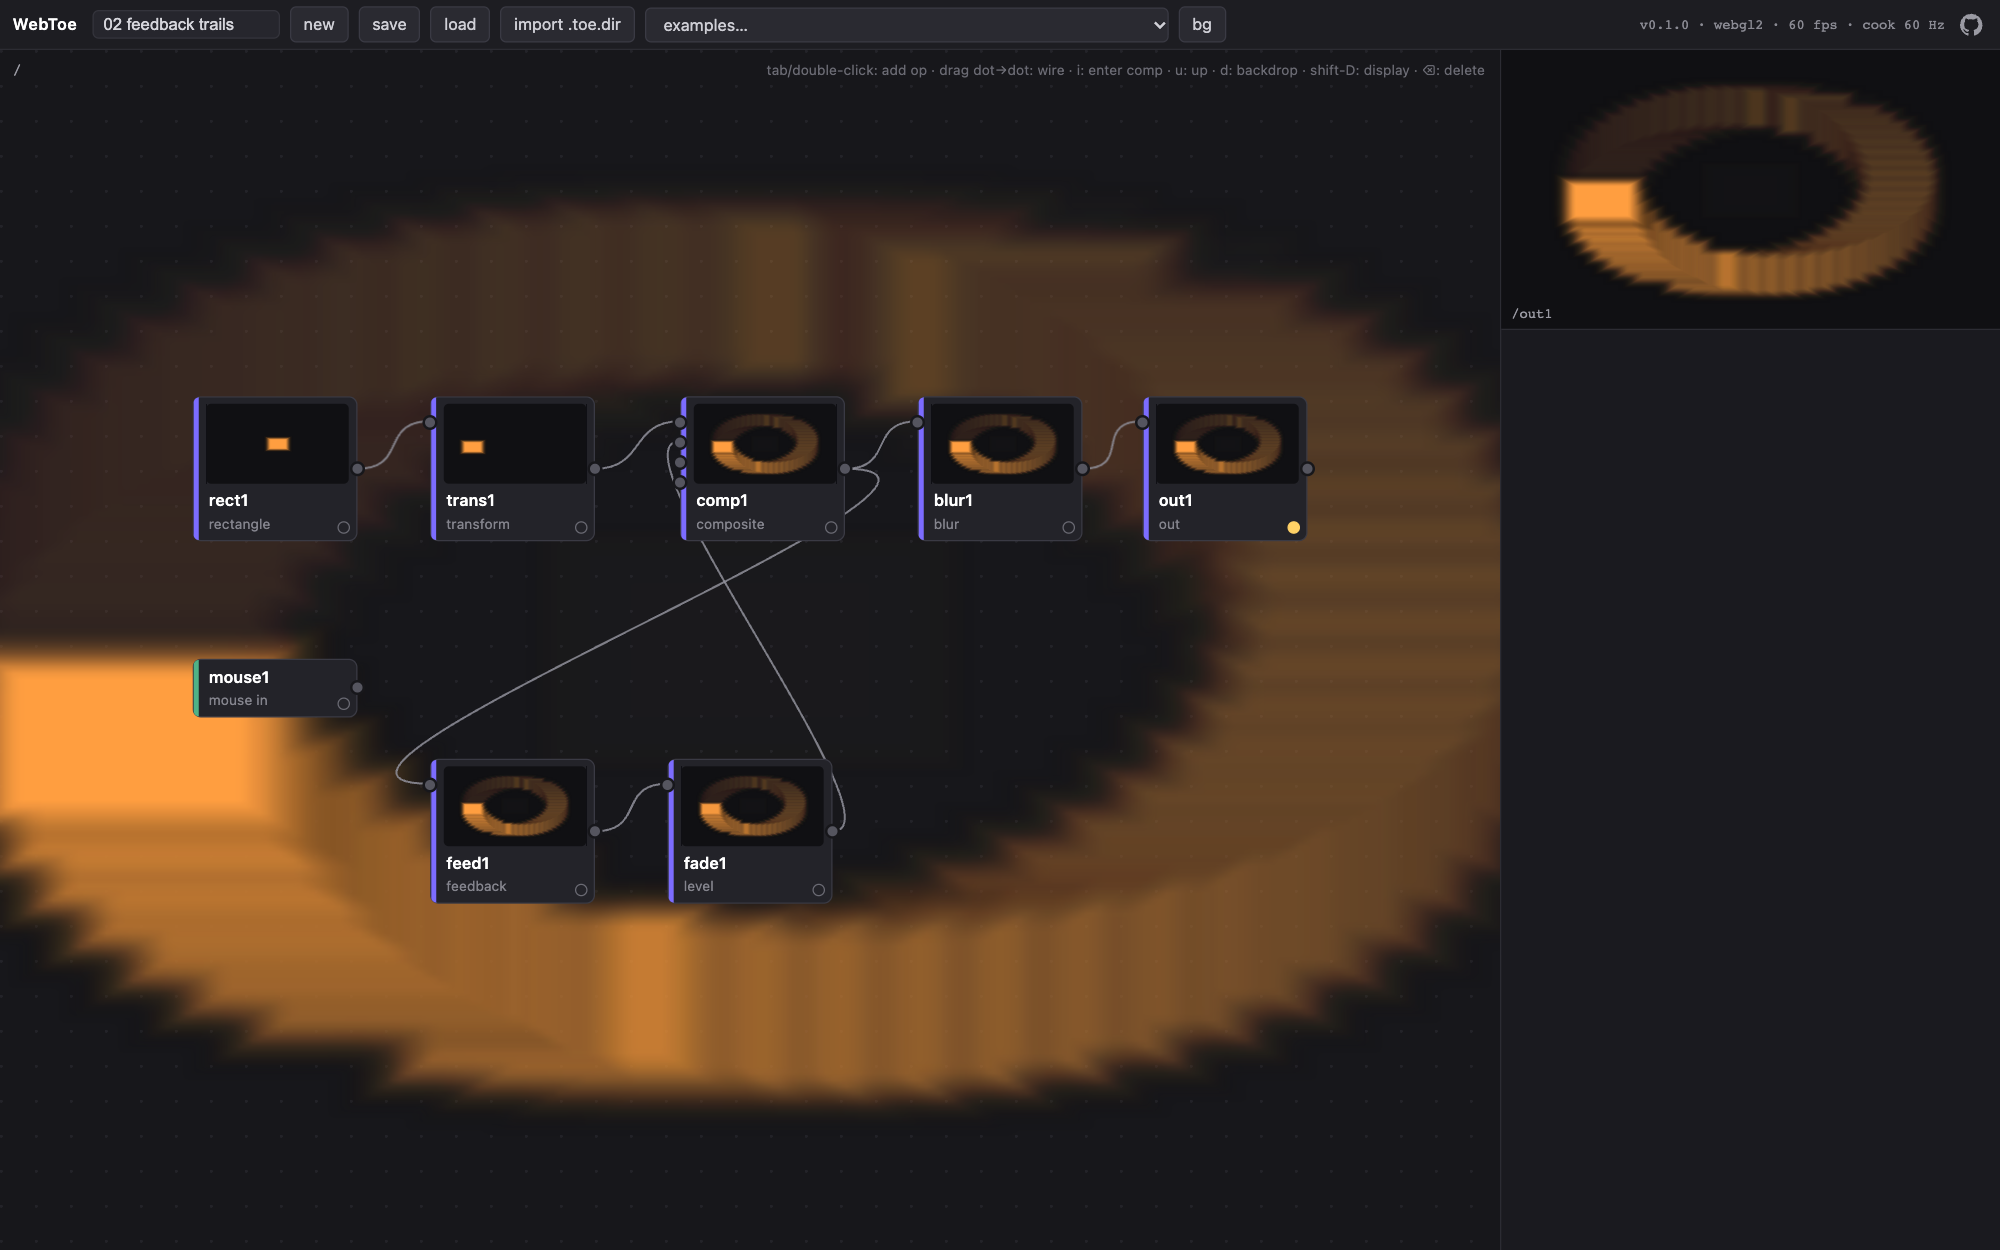
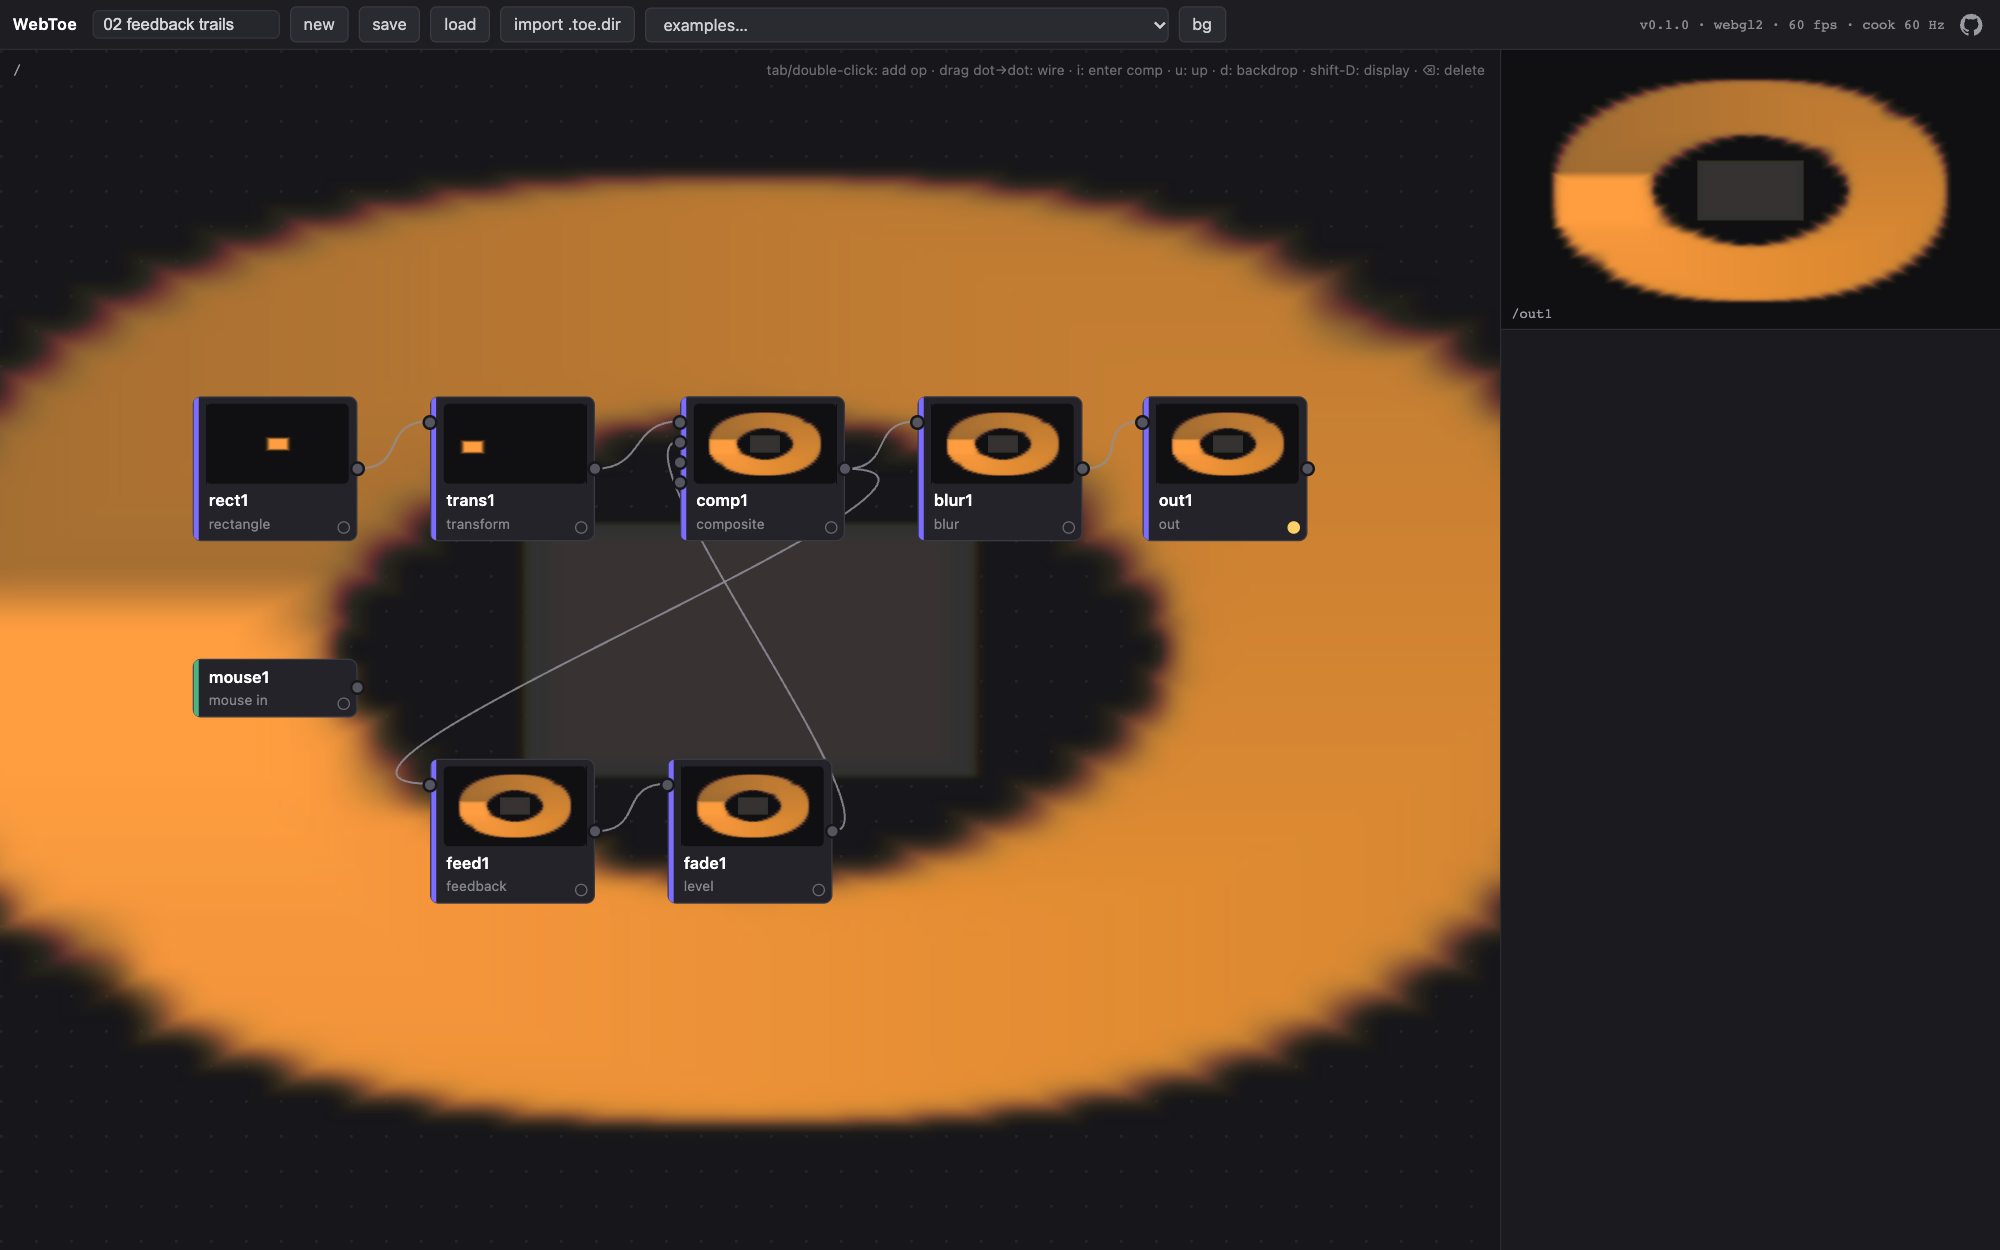
Docs: TouchDesigner fidelity on the site and in the README; screenshots
- README: TOP fidelity table with measured tolerances, the WebGPU gap
  removed (fixed in 3083cd9), bundle 260 KB / 76 KB gzip, measured cost per
  cook step (0.25-0.84 ms), 208 tests, third-party notices link
- site docs: a Fidelity section on the TouchDesigner parity page (en/zh)
- TD-PARITY: the WebGPU row-order bug recorded as fixed; ramp performance
  note; CHOPs and time
- screenshots recaptured after the fidelity pass; the WebGPU shot is the lfo
  garden again now that ramps render the same on both backends

diff --git a/README.md b/README.md
@@ -11,14 +11,15 @@
 
 ![WebToe editor running the lfo-garden example](docs/media/hero-lfo-garden.png)
 
-WebToe is an original engine and editor built from scratch for the web. It is not a TouchDesigner clone or port — it implements the workflow (operator families, wired networks, expression-driven parameters, a live cook loop) natively on **WebGL2 and WebGPU**, with **zero runtime dependencies** (the editor is about 200 KB of JavaScript, 60 KB gzipped). It cooks on **TouchDesigner's time model** — a fixed-rate cook clock — and it opens real TouchDesigner projects: a dropped `.toe` is decoded right in the browser (research preview), with your own TouchDesigner's `toeexpand` as the reference fallback.
+WebToe is an original engine and editor built from scratch for the web. It is not a TouchDesigner clone or port — it implements the workflow (operator families, wired networks, expression-driven parameters, a live cook loop) natively on **WebGL2 and WebGPU**, with **zero runtime dependencies** (the editor is about 260 KB of JavaScript, 76 KB gzipped). It cooks on **TouchDesigner's time model** — a fixed-rate cook clock — and it opens real TouchDesigner projects: a dropped `.toe` is decoded right in the browser (research preview), with your own TouchDesigner's `toeexpand` as the reference fallback.
 
 ## Highlights
 
 - **Patch live in the browser** — network editor with a create-operator dialog (`Tab` / double-click: family tabs, searchable grid), wire dragging, container hierarchy with in/out tunneling, **real-time previews on every node** (one GPU compositor paints the viewer and all visible thumbnails), a TouchDesigner-style network backdrop, and a parameter panel with sliders, menus, and per-parameter **expressions** (`op('lfo1')['chan1']`, `parent().par.speed`, `time.seconds * 0.2`, …).
 - **TouchDesigner's time model** — the engine cooks on a fixed grid at the project's cook rate (imported from the `.toe`, 60 Hz by default), so per-step constants such as feedback fades behave as they do in TouchDesigner on any display. State is deterministic (identical whether a frame runs 1, 7 or 24 steps), a 120 Hz display cooks a 60 Hz project 60 times a second, and a busy GPU never sends it into a catch-up death spiral.
-- **Real-time GPU engine** — pull-based cook; TOPs run as GPU passes, CHOPs drive parameters; feedback with TouchDesigner's Target TOP semantics, separable blur, compositing, displacement, edge detection, lookup, a 3D pipeline (SOPs, MATs, geometry/camera/light COMPs, render TOP), webcam/video/image input, and NDI in/out.
-- **Two GPU backends** — WebGL2 (default, universal) and WebGPU (`?backend=webgpu`), both speaking one backend-agnostic pass contract (one known WGSL gap, being fixed: the ramp TOP on WebGPU).
+- **TouchDesigner's numbers** — Level, Edge, Monochrome/Lookup, Ramp, Blur, Noise (Gustavson Perlin/simplex 2D–4D) and Composite (all 46 operations, premultiplied) follow formulas measured against TouchDesigner, with tested tolerances down to 1e-7.
+- **Real-time GPU engine** — pull-based cook; TOPs run as GPU passes, CHOPs drive parameters; feedback with TouchDesigner's Target TOP semantics, a 3D pipeline (SOPs, MATs, geometry/camera/light COMPs, render TOP), webcam/video/image input, and NDI in/out.
+- **Two GPU backends** — WebGL2 (default, universal) and WebGPU (`?backend=webgpu`), both speaking one backend-agnostic pass contract; the TOP shaders render identically on both within 1/255, and a contract test keeps the WGSL uniform layout in step with each operator.
 - **Opens TouchDesigner projects** — drop a `.toe`/`.tox` and it is **decoded natively in the browser**, no TouchDesigner install needed (research use only — see below); supported operators run live, everything else becomes a faithful stub preserving names, wires, layout, parameters, and Python code, with an honest report. Validated byte for byte against `toeexpand` on 125 production projects.
 - **Measured, reproducibly** — `npm run bench` prints one JSON line per project (fps, cook rate, fitted step cost, longest frame, heap growth, skipped steps); the editor's HUD shows display fps, cook rate and skipped steps live.
 - **Own versioned format** — lossless `.webtoe.json` save/load with migration hooks; the cook rate travels with the project.
@@ -29,7 +30,7 @@ WebToe is an original engine and editor built from scratch for the web. It is no
 
 | Operator palette | WebGPU backend |
 |---|---|
-| ![Searchable operator palette](docs/media/palette.png) | ![Hello noise on the WebGPU backend](docs/media/webgpu.png) |
+| ![Searchable operator palette](docs/media/palette.png) | ![The lfo garden example on the WebGPU backend](docs/media/webgpu.png) |
 
 ## Opening TouchDesigner projects
 
@@ -84,16 +85,29 @@ WebToe aims to behave like TouchDesigner where it matters for a ported network, 
 - **Lag CHOP** — the lag time is the time to cover 90% of a step: *a* = 1 − exp(−dt·ln10 / lag).
 - **Speed CHOP** — outputs the accumulation *before* this step; step 0 outputs 0.
 
-TOP operator formulas (level, edge, ramp, blur, noise, composite) are being aligned with the same measurements; [docs/TD-PARITY.md](docs/TD-PARITY.md) tracks what matches and with which tolerance.
+- **TOP formulas** — measured against TouchDesigner and checked by CPU references, with the real shaders compared to those references in Chrome:
+
+| TOP | What matches TouchDesigner | Measured tolerance |
+|---|---|---|
+| Level | order of operations, black level, ranges, low/high, post page; opacity scales RGB and alpha | ≤ 1e-3 |
+| Edge | √strength, black level, offset, Rec.709 luminance, edge over input | ≤ 1.2e-7 |
+| Monochrome, Lookup | Rec.709 luminance, channel menus | exact formula |
+| Ramp | wrapping keys (up to 32), phase/period rules, extend, interpolation | median ≤ 1e-5 (antialias not reproduced) |
+| Blur | full-width size, kernel integrated per texel, single-tap preshrink | ≤ 7.5e-7 |
+| Noise | Gustavson Perlin/simplex 2D–4D, TouchDesigner's coordinates, seeds, octaves = harmon + 1 | ≤ 3.7e-3, 99.9% ≤ 6e-4 |
+| Composite | premultiplied, all 46 operations, transform page | 37 ops ≤ 1e-7, 9 fitted ≤ 3e-5 |
+
+The full table — including what is inferred or approximate, and how to capture TouchDesigner goldens with `tools/td-golden/capture.py` — is in [docs/TD-PARITY.md](docs/TD-PARITY.md).
 
 ## Performance
 
-`npm run bench` (headless Chrome, MacBook Pro M4 Max) — every bundled project holds **60 fps with the cook clock at 60 Hz and zero skipped steps**; the fitted cost per cook step is 0.2–1.0 ms for the authored examples. What keeps it there:
+`npm run bench` (headless Chrome, MacBook Pro M4 Max) — every bundled project holds **60 fps with the cook clock at 60 Hz and zero skipped steps**. Measured directly (60 forced steps, then a synchronous readback), a cook step costs 0.25 ms for feedback trails, 0.50 ms for lfo garden, 0.73 ms for 3d lines and 0.84 ms for the showcase. What keeps it there:
 
 - one cook per step, not per display frame (half the GPU work on a 120 Hz display);
 - every node preview drawn by one GPU compositor;
 - the network backdrop reads pixels back without stalling the pipeline (pixel-pack buffer + fence);
 - no per-pass buffer allocation on WebGPU; both backends request the high-performance adapter;
+- shader hot paths stay in registers (e.g. the ramp picks its keys with static indices — 4.7× faster than indexing a local array);
 - TEA for the `.toe` container runs in a 287-byte WASM kernel (JS fallback), inflate is the platform's own.
 
 ## Operator set
@@ -124,7 +138,7 @@ The website carries the full docs in English and Chinese: [getting started](http
 ```bash
 npm install
 npm run dev        # editor at http://localhost:8643/app/
-npm run check      # typecheck + 141 tests
+npm run check      # typecheck + 208 tests (GPU and TouchDesigner-golden checks run when their env vars are set)
 npm run build      # site + editor → apps/web/dist (/, /zh/, /docs/, /app/)
 npm run site       # site only; npm run site:check guards against drift
 npm run bench      # runtime numbers in headless Chrome (needs the dev server)
@@ -170,4 +184,4 @@ WebToe is an independent open-source project, **not affiliated with or endorsed 
 
 ## License
 
-[MIT](LICENSE)
+[MIT](LICENSE) · third-party notices for the noise and other shader algorithms: [THIRD_PARTY_NOTICES.md](THIRD_PARTY_NOTICES.md)

diff --git a/docs/TD-PARITY.md b/docs/TD-PARITY.md
@@ -62,7 +62,11 @@ Importer fixes in the same pass: vertical ramps no longer import as horizontal; 
 
 WebToe-authored examples were adjusted where a semantic change would alter their look (Blur size is now full width, Edge uses √strength, Noise uses TD coordinates, Level opacity now scales RGB too, and the old ramp shader had `radial` and `circular` swapped): 01/08 (noise period), 02 (fade opacity → 1, blur size 3), 03 (ramp types swapped back to what rendered before), 04 (edge strength 25, noise period 1.35 / harmonics 1), 05 (ramp type name), 09 (edge strength squared, noise periods, ramp type, fade opacity → 1), 10 (blur size 16 gaussian). The imported sketches 06–08 keep their TD parameters — they now render with TD semantics.
 
-Backend parity: every pass of the new shaders was rendered on both backends from the same graph and compared pixel by pixel (ramp all types, noise all 11 types, level, edge, monochrome, blur all 7 kernels + preshrink, composite all 46 operations + transform/extend/swap): identical within 1/255, except that the WebGPU backend writes each pass vertically flipped relative to WebGL2 (a backend coordinate convention, independent of the shaders — odd-length chains come out mirrored) and Composite `vividlight` at 0/0 pixels (NaN, backend-defined).
+Backend parity: every pass of the new shaders was rendered on both backends from the same graph and compared pixel by pixel (ramp all types, noise all 11 types, level, edge, monochrome, blur all 7 kernels + preshrink, composite all 46 operations + transform/extend/swap): identical within 1/255, except Composite `vividlight` at 0/0 pixels (NaN, backend-defined). The comparison also exposed a backend convention bug, since fixed: the WebGPU backend wrote each pass in the opposite row order, so every pass that sampled an input flipped it and odd-length chains came out mirrored; WebGPU targets now keep WebGL's row order.
+
+Performance note: the first Ramp port copied its 32 keys into local arrays and indexed them dynamically, which spills to memory (0.6 ms per 720p ramp on an M4 Max); key lookup is now generated as unrolled static-index selects, 0.13 ms, same output. Measured cost per cook step after this pass (M4 Max, Chrome): lfo garden 0.50 ms, showcase 0.84 ms, 3d lines 0.73 ms.
+
+**CHOPs and time.** Same source: the engine cooks on a fixed-rate clock at the project cook rate (per-step constants as in TD); Lag uses a = 1 − exp(−dt·ln10/lag) (lag = time to 90%); Speed outputs the sum *before* this step; Feedback returns its Target TOP's previous-step result and passes its input through until the target has rendered.
 
 **Capturing TD goldens.** With TouchDesigner open (e.g. through touchdesigner-mcp `execute_python_script`): `exec(open('tools/td-golden/capture.py').read()); capture('/path/to/golden')`, then `TD_GOLDEN_DIR=/path/to/golden npx vitest run tests/td-golden.test.ts`. Goldens are never committed; jobs using a parameter name TD rejects are listed and skipped rather than failing.
 

diff --git a/site/docs/zh/td-parity.md b/site/docs/zh/td-parity.md
@@ -30,6 +30,24 @@ WebToe 追求的是與 TouchDesigner 在**創作語意上的對齊**（網路、
 - **透過本機橋接程式的網頁對應**：瀏覽器沒有對應功能的 I/O，交給使用者執行的小型本機程式，與匯入橋接程式同一個模式。[NDI 收發](ndi.md)就是這樣推出的；Art-Net、Syphon/Spout 擷取與序列埠可以比照。
 - **僅限原生**，明確不在範圍內：DirectX/SDI/ST 2110、廠商 SDK（Kinect、ZED、Oculus）、C++ 運算子、Notch 與 Substance 宿主。
 
+## 忠實度：跟 TouchDesigner 算出一樣的數字 {#fidelity}
+
+運算子數量說的是有沒有；忠實度說的是匯入的網路能不能畫出**一樣的像素**、用**一樣的節奏**前進。以下行為來自作者自己兩場 TouchDesigner 演出的正式網頁移植，在 TouchDesigner 2025 上用黑箱方式量出來（餵已知輸入、讀回輸出），再由作者移植過來。每條公式都有 CPU 參考實作和測試，真正的 shader 也會在 Chrome 裡跟參考值比對。
+
+| 運算子 | 跟 TouchDesigner 一致的部分 | 實測誤差 |
+|---|---|---|
+| Level | 運算順序、black level、範圍、low/high、post 頁；opacity 同時乘上 RGB 與 alpha | ≤ 1e-3（14 × 2 組） |
+| Edge | TouchDesigner 的公式（√strength、black level、offset）、Rec.709 亮度、邊緣疊在輸入上 | ≤ 1.2e-7（65 組） |
+| Monochrome、Lookup | Rec.709 亮度、TouchDesigner 的通道選單 | 公式完全一致 |
+| Ramp | 色標首尾相接（最多 32 個）、phase／period 規則、延伸、內插、比例適配 | 中位數 ≤ 1e-5（35 組）；不重現 antialias |
+| Blur | size 為全寬、核心按像素積分、單次取樣的預縮 | ≤ 7.5e-7（52 張） |
+| Noise | Gustavson 的 Perlin／simplex 2D–4D、TouchDesigner 的座標、變換頁、種子與八度數 | ≤ 3.7e-3，99.9% ≤ 6e-4 |
+| Composite | 預乘 alpha、全部 46 種運算、變換頁 | 37 種 ≤ 1e-7，9 種擬合 ≤ 3e-5 |
+| Cook 時鐘 | 依專案 cook 速率固定步長；每步的常數在任何螢幕上都跟 TouchDesigner 一樣 | 決定論，有測試 |
+| Lag、Speed、Feedback | lag 是走到 90% 的秒數（a = 1 − exp(−dt·ln10/lag)）；speed 輸出這一步之前的累積；feedback 回傳目標 TOP 的上一步 | 有測試 |
+
+兩個 GPU 後端畫這些 shader 的結果，差距在 1/255 以內。完整表格，以及哪些是推估或近似，見 [docs/TD-PARITY.md](https://github.com/frank890417/WebToe/blob/main/docs/TD-PARITY.md#fidelity--tops-that-reproduce-touchdesigners-numbers)。
+
 ## 引擎概念 {#concepts}
 
 | 概念 | WebToe 現況 |

diff --git a/site/docs/en/td-parity.md b/site/docs/en/td-parity.md
@@ -30,6 +30,24 @@ The official counts come from the operator categories on docs.derivative.ca (cra
 - **Web-equivalent through a local bridge**: I/O with no browser primitive gets a small local process the user runs, the pattern of the import bridge. [NDI in/out](ndi.md) shipped this way; Art-Net, Syphon/Spout capture and serial would follow it.
 - **Native-only**, declared out of scope: DirectX/SDI/ST 2110, vendor SDKs (Kinect, ZED, Oculus), C++ operators, Notch and Substance hosts.
 
+## Fidelity: the same numbers as TouchDesigner {#fidelity}
+
+Op counts say what exists; fidelity says whether an imported network renders the *same pixels* and moves at the *same pace*. The behaviour below was measured black-box against TouchDesigner 2025 (known inputs in, outputs read back) in the author's own production web port of two TouchDesigner shows, and ported here by the author. CPU references for every formula are tested, and the real shaders are compared with them in Chrome.
+
+| Operator | What matches TouchDesigner | Measured tolerance |
+|---|---|---|
+| Level | TouchDesigner's order of operations, black level, ranges, low/high, post page; opacity scales RGB and alpha | ≤ 1e-3 (14 × 2 cases) |
+| Edge | TouchDesigner's formula (√strength, black level, offset), Rec.709 luminance, edge over input | ≤ 1.2e-7 (65 cases) |
+| Monochrome, Lookup | Rec.709 luminance, TouchDesigner's channel menus | exact formula |
+| Ramp | wrapping keys (up to 32), phase/period rules, extend, interpolation, fit aspect | median ≤ 1e-5 (35 cases); antialias not reproduced |
+| Blur | full-width size, kernel integrated per texel, single-tap preshrink | ≤ 7.5e-7 (52 images) |
+| Noise | Gustavson Perlin/simplex 2D–4D, TouchDesigner's coordinates, transform page, seeds and octave count | ≤ 3.7e-3, 99.9% ≤ 6e-4 |
+| Composite | premultiplied, all 46 operations, transform page | 37 ops ≤ 1e-7, 9 fitted ≤ 3e-5 |
+| Cook clock | fixed-rate steps at the project cook rate; per-step constants behave as in TouchDesigner on any display | deterministic, tested |
+| Lag, Speed, Feedback | lag = time to 90% (a = 1 − exp(−dt·ln10/lag)); speed outputs the sum before this step; feedback returns its Target TOP's previous step | tested |
+
+Both GPU backends render these shaders identically within 1/255. The full table, with what is inferred or approximate, is in [docs/TD-PARITY.md](https://github.com/frank890417/WebToe/blob/main/docs/TD-PARITY.md#fidelity--tops-that-reproduce-touchdesigners-numbers).
+
 ## Engine concepts {#concepts}
 
 | Concept | Status in WebToe |
